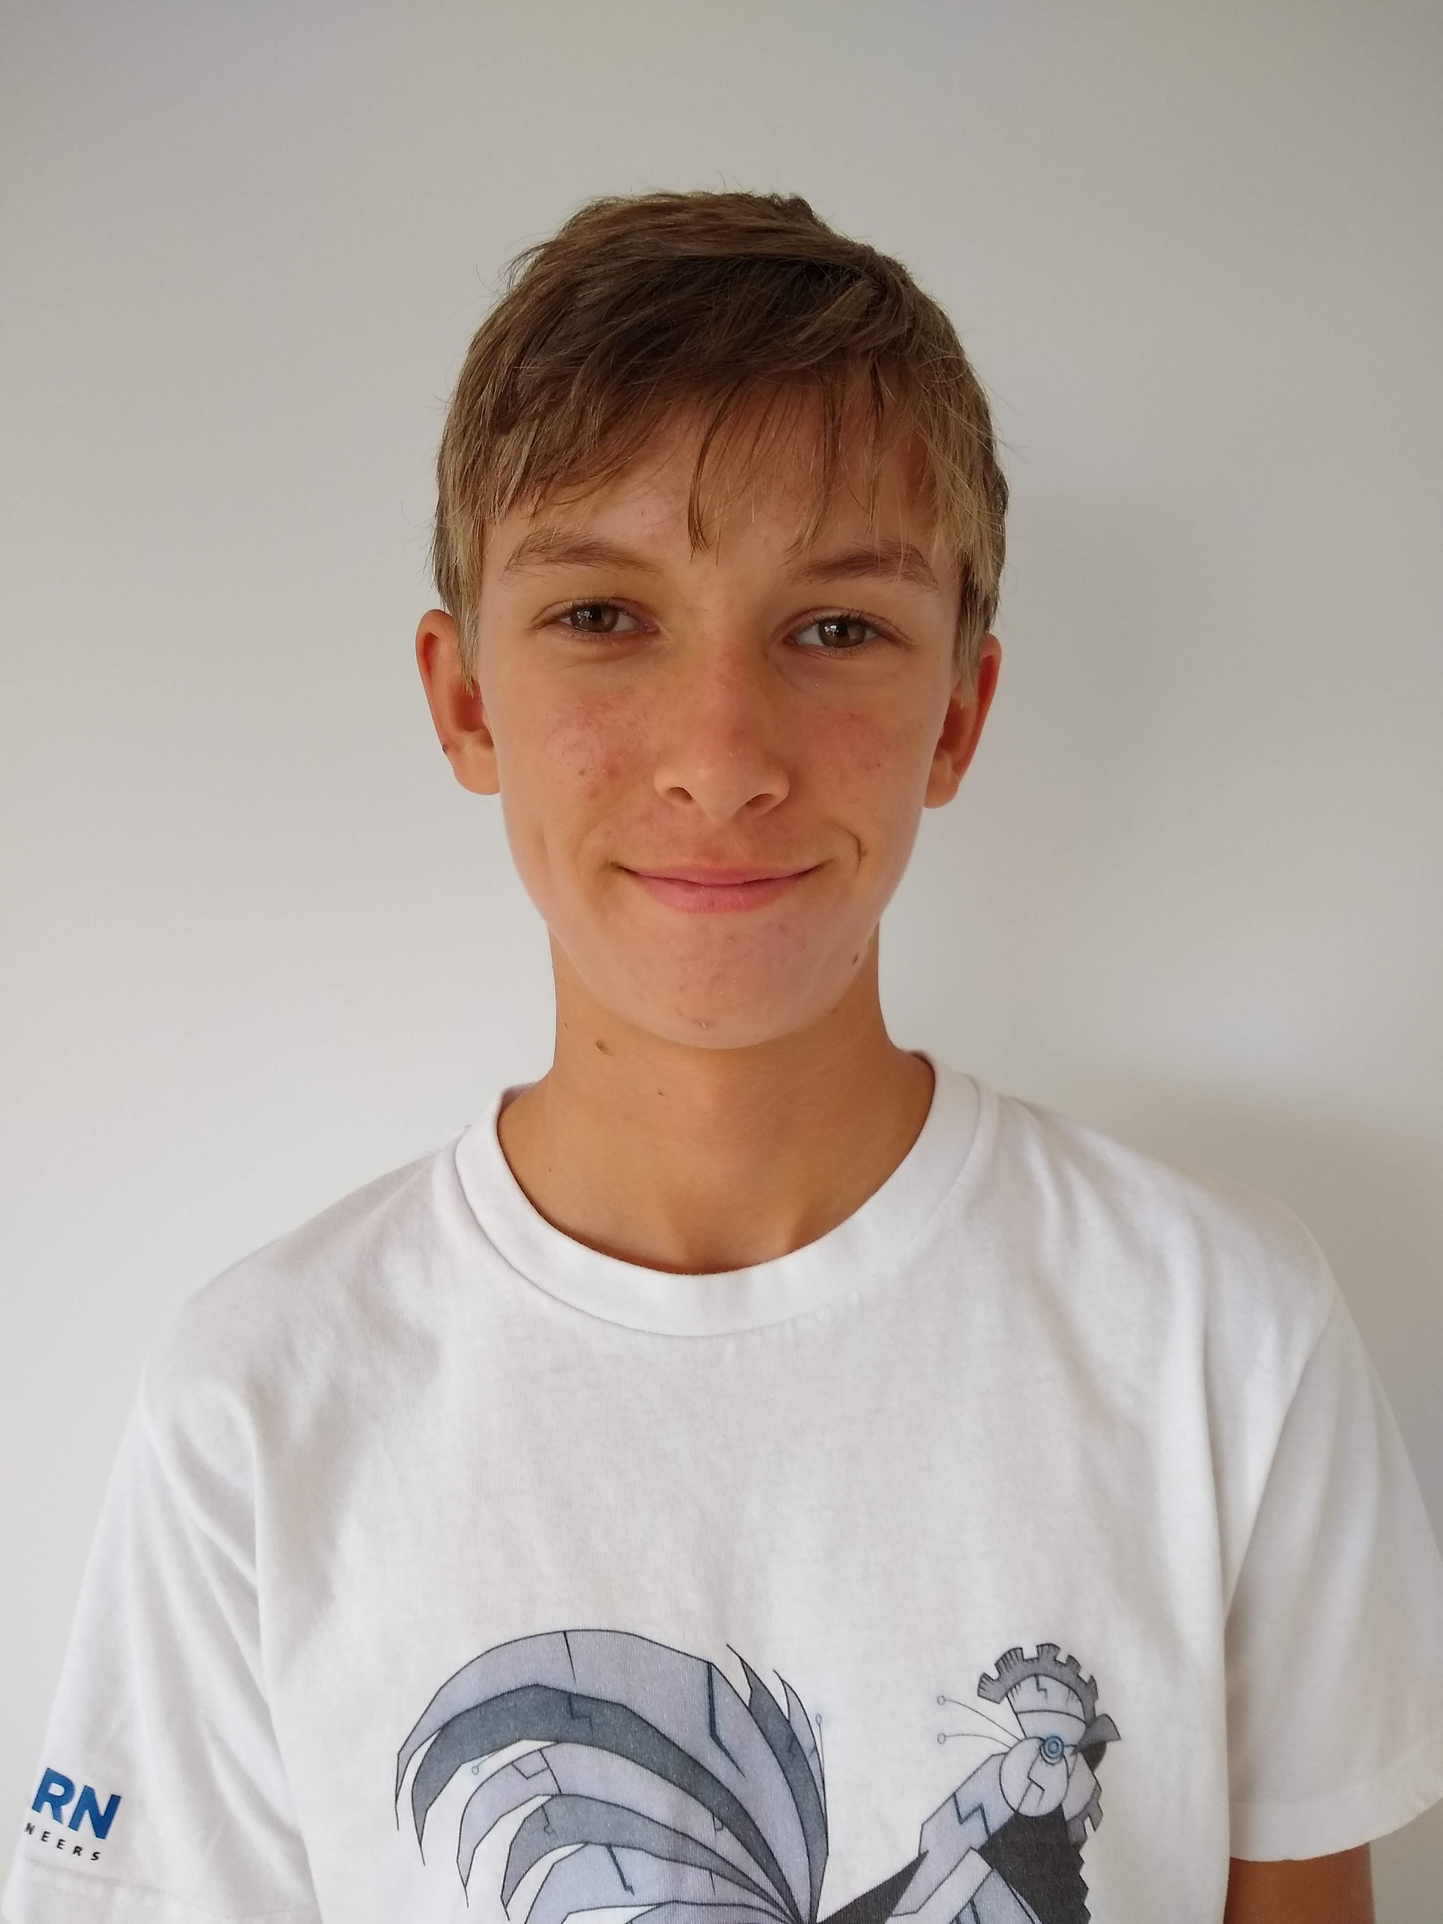
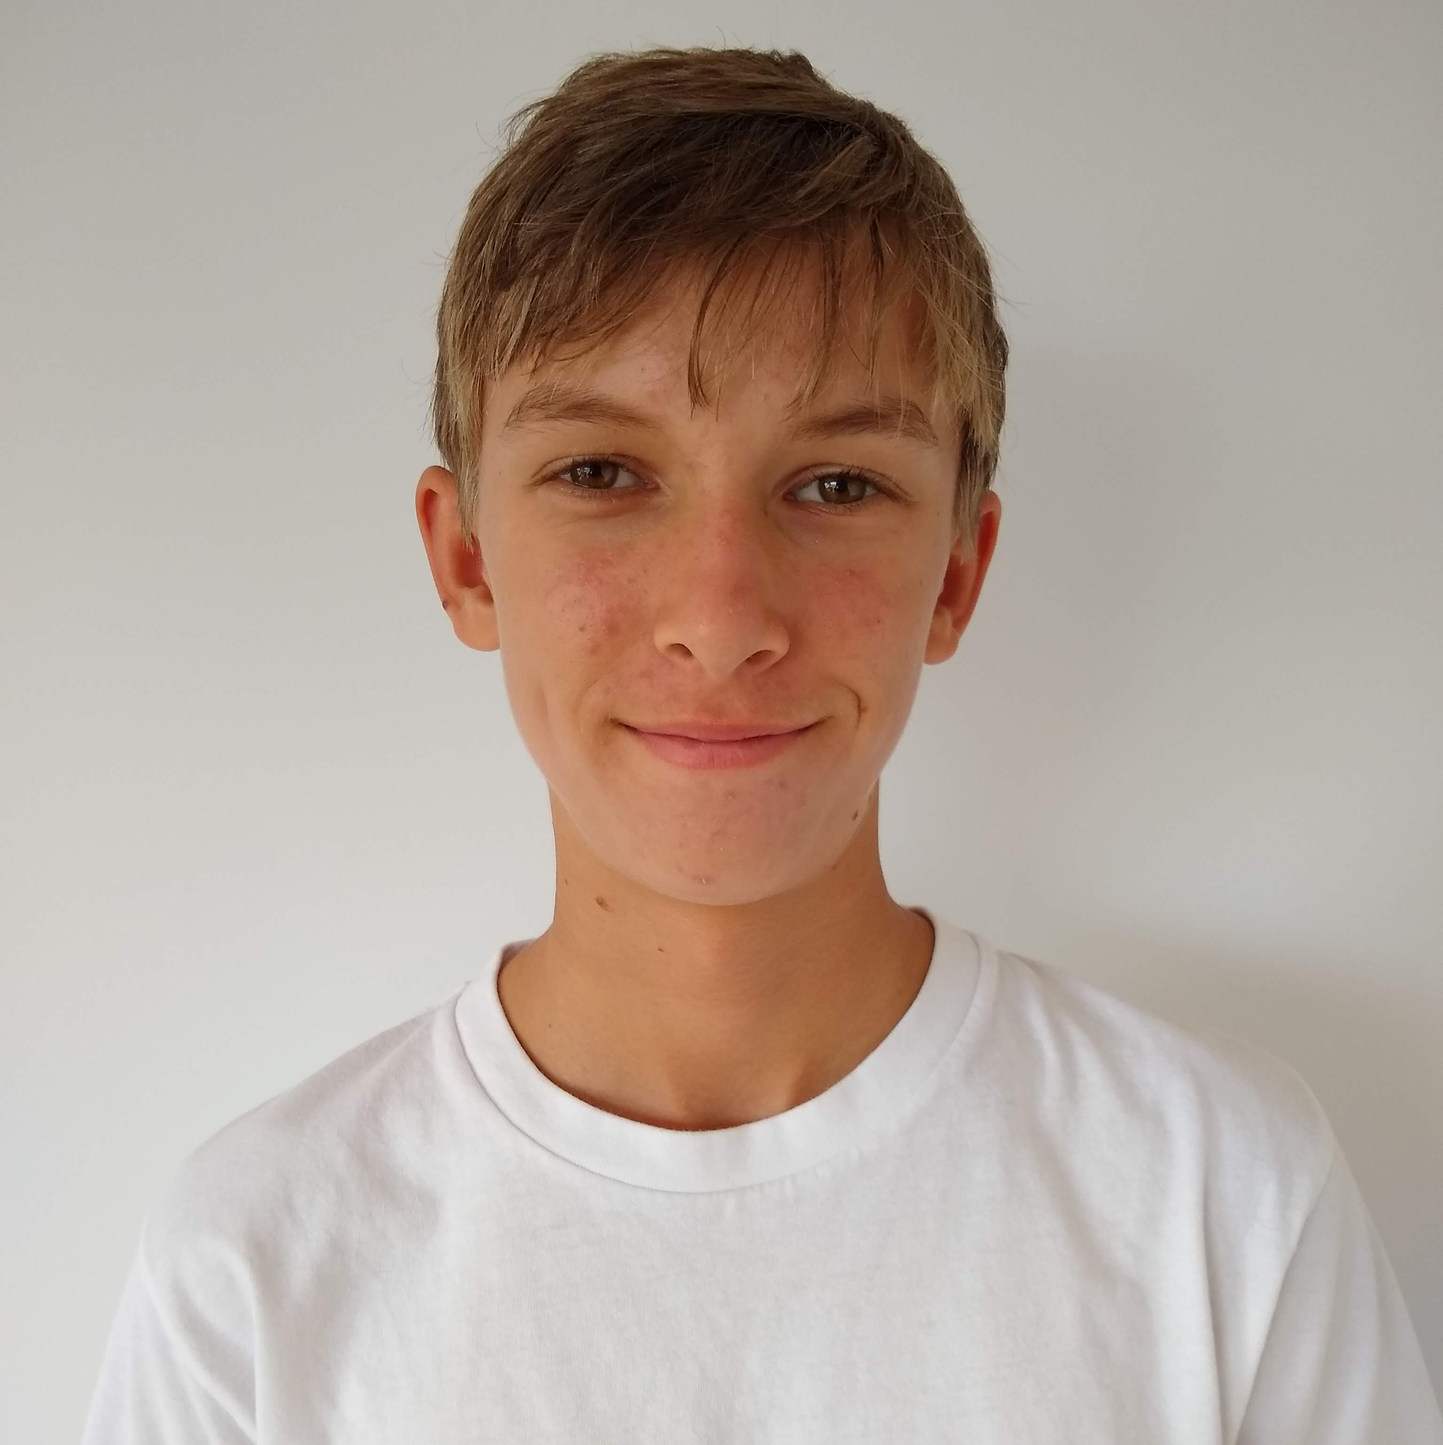
Edit 15 (Team Modal)

diff --git a/index.html b/index.html
@@ -251,8 +251,8 @@ h1, h2, h3, h4, h5, h6 {
         </div>
     <div class="row">
           <div class="col-sm-4">
-        <div class="team-member"> <img class="mx-auto rounded-circle" src="img/team/MeEDIT.png" alt="">
-              <h4>Ethan Dew </h4>
+        <div class="team-member"><a class="portfolio-link" data-toggle="modal" href="#EthanModal"> <img class="mx-auto rounded-circle" src="img/team/MeEDIT.png" alt="">
+       <h4>Ethan Dew </h4></a>
               <p class="text-muted">Team Leader, Little Cap Driver, Code Team</p>
               <ul class="list-inline social-buttons">
             <li class="list-inline-item"> <a href="#"> <i class="fab fa-discord"></i> </a> </li>
@@ -262,8 +262,8 @@ h1, h2, h3, h4, h5, h6 {
             </div>
       </div>
           <div class="col-sm-4">
-        <div class="team-member"> <img class="mx-auto rounded-circle" src="img/team/GabrielEDIT.png" alt="">
-              <h4>Gabe </h4>
+        <div class="team-member"><a class="portfolio-link" data-toggle="modal" href="#GabeModal"> <img class="mx-auto rounded-circle" src="img/team/Gabriel2.JPG" alt=""> 
+              <h4>Gabriel Wheeler </h4></a>
               <p class="text-muted">Co-Team Leader &amp; Big Cap Driver</p>
               <ul class="list-inline social-buttons">
             <li class="list-inline-item"> <a href="#"> <i class="fab fa-discord"></i> </a> </li>
@@ -273,8 +273,8 @@ h1, h2, h3, h4, h5, h6 {
             </div>
       </div>
           <div class="col-sm-4">
-        <div class="team-member"> <img class="mx-auto rounded-circle" src="img/placeholder.png" alt="">
-              <h4>Hana Morrow</h4>
+        <div class="team-member"><a class="portfolio-link" data-toggle="modal" href="#HanaModal"> <img class="mx-auto rounded-circle" src="img/placeholder.png" alt="">
+              <h4>Hana Morrow</h4></a>
               <p class="text-muted">Little Cap Drive Team Coach &amp; Build Team</p>
               <ul class="list-inline social-buttons">
             <li class="list-inline-item"> <a href="#"> <i class="fab fa-twitter"></i> </a> </li>
@@ -284,8 +284,8 @@ h1, h2, h3, h4, h5, h6 {
             </div>
       </div>
           <div class="col-sm-4">
-        <div class="team-member"> <img class="mx-auto rounded-circle" src="img/placeholder.png" alt="">
-              <h4>Ishua Morrow</h4>
+        <div class="team-member"><a class="portfolio-link" data-toggle="modal" href="#IshuaModal"> <img class="mx-auto rounded-circle" src="img/placeholder.png" alt="">
+              <h4>Ishua Morrow</h4></a>
               <p class="text-muted">Big Cap Build Team &amp; Drive &nbsp; &nbsp; &nbsp; &nbsp; &nbsp; &nbsp; &nbsp;Team Coach &nbsp; &nbsp; &nbsp; &nbsp; &nbsp; &nbsp; &nbsp; &nbsp; &nbsp; &nbsp; &nbsp; &nbsp; &nbsp; &nbsp; &nbsp;</p>
               <ul class="list-inline social-buttons">
             <li class="list-inline-item"> <a href="#"> <i class="fab fa-twitter"></i> </a> </li>
@@ -295,8 +295,8 @@ h1, h2, h3, h4, h5, h6 {
             </div>
       </div>
           <div class="col-sm-4">
-        <div class="team-member"> <img class="mx-auto rounded-circle" src="img/team/Joesph.jpg" alt="">
-              <h4>Joseph Greening</h4>
+        <div class="team-member"><a class="portfolio-link" data-toggle="modal" href="#JosephModal"> <img class="mx-auto rounded-circle" src="img/team/Joesph.jpg" alt="">
+              <h4>Joseph Greening</h4></a>
               <p class="text-muted">Lil Cap Build &amp; Drive Team, Website &amp; Reveal Team </p>
               <ul class="list-inline social-buttons">
             <li class="list-inline-item"> <a href="https://github.com/YoloPigeon"> <i class="fab fa-github"></i> </a> </li>
@@ -306,8 +306,8 @@ h1, h2, h3, h4, h5, h6 {
             </div>
       </div>
           <div class="col-sm-4">
-        <div class="team-member"> <img class="mx-auto rounded-circle" src="img/placeholder.png" alt="">
-              <h4>Shaun Cole-Baker </h4>
+        <div class="team-member"><a class="portfolio-link" data-toggle="modal" href="#ShaunModal"> <img class="mx-auto rounded-circle" src="img/placeholder.png" alt="">
+              <h4>Shaun Cole-Baker </h4></a>
               <p class="text-muted">Scouting, Big Cap Build Team &amp; Code Team</p>
               <ul class="list-inline social-buttons">
             <li class="list-inline-item"> <a href="#"> <i class="fab fa-discord"></i> </a> </li>
@@ -317,8 +317,8 @@ h1, h2, h3, h4, h5, h6 {
             </div>
       </div>
           <div class="col-sm-4">
-        <div class="team-member"> <img class="mx-auto rounded-circle" src="img/placeholder.png" alt="">
-              <h4>Christian Witt</h4>
+        <div class="team-member"><a class="portfolio-link" data-toggle="modal" href="#ChristianModal"> <img class="mx-auto rounded-circle" src="img/placeholder.png" alt="">
+              <h4>Christian Witt</h4></a>
               <p class="text-muted">Big Cap Co-Driver, Code Team</p>
               <ul class="list-inline social-buttons">
             <li class="list-inline-item"> <a href="#"> <i class="fab fa-discord"></i> </a> </li>
@@ -328,8 +328,8 @@ h1, h2, h3, h4, h5, h6 {
             </div>
       </div>
           <div class="col-sm-4">
-        <div class="team-member"> <img class="mx-auto rounded-circle" src="img/placeholder.png" alt="">
-              <h4>Ivan </h4>
+        <div class="team-member"><a class="portfolio-link" data-toggle="modal" href="#IvanModal"> <img class="mx-auto rounded-circle" src="img/placeholder.png" alt="">
+              <h4>Ivan </h4></a>
               <p class="text-muted">&nbsp;</p>
               <ul class="list-inline social-buttons">
             <li class="list-inline-item"> <a href="#"> <i class="fab fa-twitter"></i> </a> </li>
@@ -339,8 +339,8 @@ h1, h2, h3, h4, h5, h6 {
             </div>
       </div>
           <div class="col-sm-4">
-        <div class="team-member"> <img class="mx-auto rounded-circle" src="img/placeholder.png" alt="">
-              <h4>Vasili</h4>
+        <div class="team-member"><a class="portfolio-link" data-toggle="modal" href="#VasiliModal"> <img class="mx-auto rounded-circle" src="img/placeholder.png" alt="">
+			<h4>Vasili</h4></a>
               <p class="text-muted">&nbsp;</p>
               <ul class="list-inline social-buttons">
             <li class="list-inline-item"> <a href="#"> <i class="fab fa-twitter"></i> </a> </li>
@@ -700,6 +700,269 @@ h1, h2, h3, h4, h5, h6 {
                   <!-- Project Details Go Here -->
                   <h2 class="text-uppercase">Excellence Award</h2>
                   <p class="item-intro text-muted">2018-19 Season - In the Zone</p>
+                  <img class="img-fluid d-block mx-auto" src="img/Awards/IMG_20190314_163458145_ORG.jpg" alt="">
+                  <ul class="list-inline">
+                <li>Competition: EDR 17/18 In the Zone</li>
+                <li>Team: 2921S</li>
+                <li>The Excellence Award is given to the Team with the Best Logbook and overall High Quality Robot, it is the greatest award that can be presented to any team in the VRC competition. We Have won the excellence award 5 times in New Zealand</li>
+              </ul>
+                  <button class="btn btn-primary" data-dismiss="modal" type="button"> <i class="fas fa-times"></i> Close Project</button>
+                </div>
+          </div>
+            </div>
+      </div>
+        </div>
+  </div>
+    </div>
+
+<!-- Team-->
+<div class="portfolio-modal modal fade" id="EthanModal" tabindex="-1" role="dialog" aria-hidden="true">
+      <div class="modal-dialog">
+    <div class="modal-content">
+          <div class="close-modal" data-dismiss="modal">
+        <div class="lr">
+              <div class="rl"></div>
+            </div>
+      </div>
+          <div class="container">
+        <div class="row">
+              <div class="col-lg-8 mx-auto">
+            <div class="modal-body"> 
+                  <!-- Project Details Go Here -->
+              <h2 class="text-uppercase">Ethan</h2>
+                  <p class="item-intro text-muted">Robots: 2921S, 2921R</p>
+                  <img class="img-fluid d-block mx-auto" src="img/team/Me.JPG" alt="">
+                  <ul class="list-inline">
+                <li>Competition: EDR 17/18 In the Zone</li>
+                <li>Team: 2921S</li>
+                <li>The Excellence Award is given to the Team with the Best Logbook and overall High Quality Robot, it is the greatest award that can be presented to any team in the VRC competition. We Have won the excellence award 5 times in New Zealand</li>
+              </ul>
+                  <button class="btn btn-primary" data-dismiss="modal" type="button"> <i class="fas fa-times"></i> Close Project</button>
+                </div>
+          </div>
+            </div>
+      </div>
+        </div>
+  </div>
+    </div>
+<div class="portfolio-modal modal fade" id="GabeModal" tabindex="-1" role="dialog" aria-hidden="true">
+      <div class="modal-dialog">
+    <div class="modal-content">
+          <div class="close-modal" data-dismiss="modal">
+        <div class="lr">
+              <div class="rl"></div>
+            </div>
+      </div>
+          <div class="container">
+        <div class="row">
+              <div class="col-lg-8 mx-auto">
+            <div class="modal-body"> 
+                  <!-- Project Details Go Here -->
+              <h2 class="text-uppercase">Gabe</h2>
+                  <p class="item-intro text-muted">Robots: 2921F</p>
+                  <img class="img-fluid d-block mx-auto" src="img/team/Gabriel2_ORG.JPG" alt="">
+                  <ul class="list-inline">
+                <li>Competition: EDR 17/18 In the Zone</li>
+                <li>Team: 2921S</li>
+                <li>The Excellence Award is given to the Team with the Best Logbook and overall High Quality Robot, it is the greatest award that can be presented to any team in the VRC competition. We Have won the excellence award 5 times in New Zealand</li>
+              </ul>
+                  <button class="btn btn-primary" data-dismiss="modal" type="button"> <i class="fas fa-times"></i> Close Project</button>
+                </div>
+          </div>
+            </div>
+      </div>
+        </div>
+  </div>
+    </div>
+<div class="portfolio-modal modal fade" id="HanaModal" tabindex="-1" role="dialog" aria-hidden="true">
+      <div class="modal-dialog">
+    <div class="modal-content">
+          <div class="close-modal" data-dismiss="modal">
+        <div class="lr">
+              <div class="rl"></div>
+            </div>
+      </div>
+          <div class="container">
+        <div class="row">
+              <div class="col-lg-8 mx-auto">
+            <div class="modal-body"> 
+                  <!-- Project Details Go Here -->
+                  <h2 class="text-uppercase">Hana</h2>
+                  <p class="item-intro text-muted">Robots: 2921R</p>
+                  <img class="img-fluid d-block mx-auto" src="img/Awards/IMG_20190314_163458145_ORG.jpg" alt="">
+                  <ul class="list-inline">
+                <li>Competition: EDR 17/18 In the Zone</li>
+                <li>Team: 2921S</li>
+                <li>The Excellence Award is given to the Team with the Best Logbook and overall High Quality Robot, it is the greatest award that can be presented to any team in the VRC competition. We Have won the excellence award 5 times in New Zealand</li>
+              </ul>
+                  <button class="btn btn-primary" data-dismiss="modal" type="button"> <i class="fas fa-times"></i> Close Project</button>
+                </div>
+          </div>
+            </div>
+      </div>
+        </div>
+  </div>
+    </div>
+<div class="portfolio-modal modal fade" id="IshuaModal" tabindex="-1" role="dialog" aria-hidden="true">
+      <div class="modal-dialog">
+    <div class="modal-content">
+          <div class="close-modal" data-dismiss="modal">
+        <div class="lr">
+              <div class="rl"></div>
+            </div>
+      </div>
+          <div class="container">
+        <div class="row">
+              <div class="col-lg-8 mx-auto">
+            <div class="modal-body"> 
+                  <!-- Project Details Go Here -->
+              <h2 class="text-uppercase">Ishua</h2>
+                  <p class="item-intro text-muted">Robots: 2921F</p>
+                  <img class="img-fluid d-block mx-auto" src="img/Awards/IMG_20190314_163458145_ORG.jpg" alt="">
+                  <ul class="list-inline">
+                <li>Competition: EDR 17/18 In the Zone</li>
+                <li>Team: 2921S</li>
+                <li>The Excellence Award is given to the Team with the Best Logbook and overall High Quality Robot, it is the greatest award that can be presented to any team in the VRC competition. We Have won the excellence award 5 times in New Zealand</li>
+              </ul>
+                  <button class="btn btn-primary" data-dismiss="modal" type="button"> <i class="fas fa-times"></i> Close Project</button>
+                </div>
+          </div>
+            </div>
+      </div>
+        </div>
+  </div>
+    </div>
+<div class="portfolio-modal modal fade" id="JosephModal" tabindex="-1" role="dialog" aria-hidden="true">
+      <div class="modal-dialog">
+    <div class="modal-content">
+          <div class="close-modal" data-dismiss="modal">
+        <div class="lr">
+              <div class="rl"></div>
+            </div>
+      </div>
+          <div class="container">
+        <div class="row">
+              <div class="col-lg-8 mx-auto">
+            <div class="modal-body"> 
+                  <!-- Project Details Go Here -->
+              <h2 class="text-uppercase">Joseph</h2>
+                  <p class="item-intro text-muted">Robots: 2921R</p>
+                  <img class="img-fluid d-block mx-auto" src="img/Awards/IMG_20190314_163458145_ORG.jpg" alt="">
+                  <ul class="list-inline">
+                <li>Competition: EDR 17/18 In the Zone</li>
+                <li>Team: 2921S</li>
+                <li>The Excellence Award is given to the Team with the Best Logbook and overall High Quality Robot, it is the greatest award that can be presented to any team in the VRC competition. We Have won the excellence award 5 times in New Zealand</li>
+              </ul>
+                  <button class="btn btn-primary" data-dismiss="modal" type="button"> <i class="fas fa-times"></i> Close Project</button>
+                </div>
+          </div>
+            </div>
+      </div>
+        </div>
+  </div>
+    </div>
+<div class="portfolio-modal modal fade" id="ShaunModal" tabindex="-1" role="dialog" aria-hidden="true">
+      <div class="modal-dialog">
+    <div class="modal-content">
+          <div class="close-modal" data-dismiss="modal">
+        <div class="lr">
+              <div class="rl"></div>
+            </div>
+      </div>
+          <div class="container">
+        <div class="row">
+              <div class="col-lg-8 mx-auto">
+            <div class="modal-body"> 
+                  <!-- Project Details Go Here -->
+              <h2 class="text-uppercase">Shaun</h2>
+                  <p class="item-intro text-muted">Robots: 2921F</p>
+                  <img class="img-fluid d-block mx-auto" src="img/Awards/IMG_20190314_163458145_ORG.jpg" alt="">
+                  <ul class="list-inline">
+                <li>Competition: EDR 17/18 In the Zone</li>
+                <li>Team: 2921S</li>
+                <li>The Excellence Award is given to the Team with the Best Logbook and overall High Quality Robot, it is the greatest award that can be presented to any team in the VRC competition. We Have won the excellence award 5 times in New Zealand</li>
+              </ul>
+                  <button class="btn btn-primary" data-dismiss="modal" type="button"> <i class="fas fa-times"></i> Close Project</button>
+                </div>
+          </div>
+            </div>
+      </div>
+        </div>
+  </div>
+    </div>
+<div class="portfolio-modal modal fade" id="ChristianModal" tabindex="-1" role="dialog" aria-hidden="true">
+      <div class="modal-dialog">
+    <div class="modal-content">
+          <div class="close-modal" data-dismiss="modal">
+        <div class="lr">
+              <div class="rl"></div>
+            </div>
+      </div>
+          <div class="container">
+        <div class="row">
+              <div class="col-lg-8 mx-auto">
+            <div class="modal-body"> 
+                  <!-- Project Details Go Here -->
+              <h2 class="text-uppercase">Christian</h2>
+                  <p class="item-intro text-muted">Robots: 2921F</p>
+                  <img class="img-fluid d-block mx-auto" src="img/Awards/IMG_20190314_163458145_ORG.jpg" alt="">
+                  <ul class="list-inline">
+                <li>Competition: EDR 17/18 In the Zone</li>
+                <li>Team: 2921S</li>
+                <li>The Excellence Award is given to the Team with the Best Logbook and overall High Quality Robot, it is the greatest award that can be presented to any team in the VRC competition. We Have won the excellence award 5 times in New Zealand</li>
+              </ul>
+                  <button class="btn btn-primary" data-dismiss="modal" type="button"> <i class="fas fa-times"></i> Close Project</button>
+                </div>
+          </div>
+            </div>
+      </div>
+        </div>
+  </div>
+    </div>
+<div class="portfolio-modal modal fade" id="IvanModal" tabindex="-1" role="dialog" aria-hidden="true">
+      <div class="modal-dialog">
+    <div class="modal-content">
+          <div class="close-modal" data-dismiss="modal">
+        <div class="lr">
+              <div class="rl"></div>
+            </div>
+      </div>
+          <div class="container">
+        <div class="row">
+              <div class="col-lg-8 mx-auto">
+            <div class="modal-body"> 
+                  <!-- Project Details Go Here -->
+              <h2 class="text-uppercase">IVAN</h2>
+                  <p class="item-intro text-muted">Robots:</p>
+                  <img class="img-fluid d-block mx-auto" src="img/Awards/IMG_20190314_163458145_ORG.jpg" alt="">
+                  <ul class="list-inline">
+                <li>Competition: EDR 17/18 In the Zone</li>
+                <li>Team: 2921S</li>
+                <li>The Excellence Award is given to the Team with the Best Logbook and overall High Quality Robot, it is the greatest award that can be presented to any team in the VRC competition. We Have won the excellence award 5 times in New Zealand</li>
+              </ul>
+                  <button class="btn btn-primary" data-dismiss="modal" type="button"> <i class="fas fa-times"></i> Close Project</button>
+                </div>
+          </div>
+            </div>
+      </div>
+        </div>
+  </div>
+    </div>
+<div class="portfolio-modal modal fade" id="VasiliModal" tabindex="-1" role="dialog" aria-hidden="true">
+      <div class="modal-dialog">
+    <div class="modal-content">
+          <div class="close-modal" data-dismiss="modal">
+        <div class="lr">
+              <div class="rl"></div>
+            </div>
+      </div>
+          <div class="container">
+        <div class="row">
+              <div class="col-lg-8 mx-auto">
+            <div class="modal-body"> 
+                  <!-- Project Details Go Here -->
+              <h2 class="text-uppercase">Vasili</h2>
+                  <p class="item-intro text-muted">Robots:</p>
                   <img class="img-fluid d-block mx-auto" src="img/Awards/IMG_20190314_163458145_ORG.jpg" alt="">
                   <ul class="list-inline">
                 <li>Competition: EDR 17/18 In the Zone</li>
